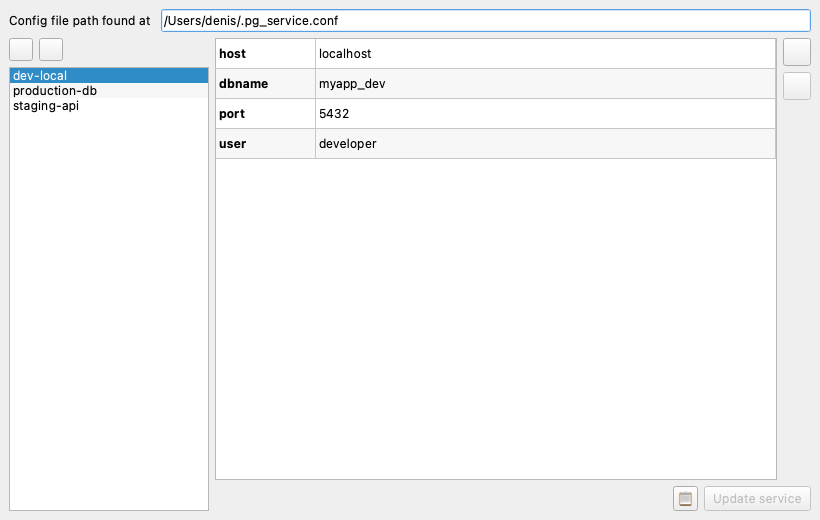
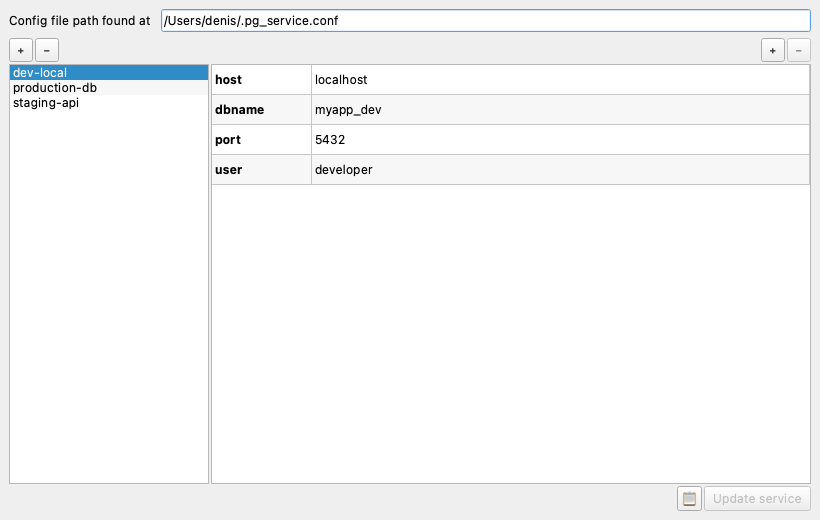
update UI (#69)
* update UI

* use relative imports

diff --git a/pgserviceparser/gui/service_widget.py b/pgserviceparser/gui/service_widget.py
@@ -29,10 +29,19 @@ QToolButton = QtWidgets.QToolButton
 QVBoxLayout = QtWidgets.QVBoxLayout
 QWidget = QtWidgets.QWidget
 
-import pgserviceparser
-from pgserviceparser.exceptions import ServiceFileNotFound, ServiceNotFound
-from pgserviceparser.service_settings import SERVICE_SETTINGS, SETTINGS_TEMPLATE
-
+from .. import (
+    conf_path,
+    copy_service_settings,
+    create_service,
+    remove_service,
+    rename_service,
+    service_config,
+    service_names,
+    write_service,
+    write_service_to_text,
+)
+from ..exceptions import ServiceFileNotFound, ServiceNotFound
+from ..service_settings import SERVICE_SETTINGS, SETTINGS_TEMPLATE
 from .item_delegates import _ServiceConfigDelegate
 from .setting_model import _ServiceConfigModel
 
@@ -60,7 +69,7 @@ class PGServiceParserWidget(QWidget):
             parent: Optional parent widget.
         """
         super().__init__(parent)
-        self._conf_file_path = conf_file_path or pgserviceparser.conf_path()
+        self._conf_file_path = conf_file_path or conf_path()
         self._edit_model: _ServiceConfigModel | None = None
         self._new_empty_file = False
 
@@ -112,24 +121,43 @@ class PGServiceParserWidget(QWidget):
 
         # ---- Main content ----
         self._content_widget = QWidget()
-        root = QHBoxLayout(self._content_widget)
-        root.setContentsMargins(0, 0, 0, 0)
+        content_layout = QVBoxLayout(self._content_widget)
+        content_layout.setContentsMargins(0, 0, 0, 0)
+        content_layout.setSpacing(2)
 
-        # ---- Left: service list + buttons ----
-        left = QVBoxLayout()
+        # ---- Top toolbar: service buttons (left) | settings buttons (right) ----
+        toolbar_row = QHBoxLayout()
 
-        btn_row = QHBoxLayout()
         self.btnAddService = QToolButton()
         self.btnAddService.setIcon(icon_add())
         self.btnAddService.setToolTip("Add a new service")
+        self.btnAddService.setFixedSize(24, 24)
         self.btnRemoveService = QToolButton()
         self.btnRemoveService.setIcon(icon_remove())
         self.btnRemoveService.setToolTip("Remove selected service(s)")
+        self.btnRemoveService.setFixedSize(24, 24)
         self.btnRemoveService.setEnabled(False)
-        btn_row.addWidget(self.btnAddService)
-        btn_row.addWidget(self.btnRemoveService)
-        btn_row.addStretch()
-        left.addLayout(btn_row)
+        toolbar_row.addWidget(self.btnAddService)
+        toolbar_row.addWidget(self.btnRemoveService)
+
+        toolbar_row.addStretch()
+
+        self.btnAddSettings = QToolButton()
+        self.btnAddSettings.setIcon(icon_add())
+        self.btnAddSettings.setToolTip("Add settings to current service")
+        self.btnAddSettings.setFixedSize(24, 24)
+        self.btnRemoveSetting = QToolButton()
+        self.btnRemoveSetting.setIcon(icon_remove())
+        self.btnRemoveSetting.setToolTip("Remove setting from current service")
+        self.btnRemoveSetting.setFixedSize(24, 24)
+        self.btnRemoveSetting.setEnabled(False)
+        toolbar_row.addWidget(self.btnAddSettings)
+        toolbar_row.addWidget(self.btnRemoveSetting)
+
+        content_layout.addLayout(toolbar_row)
+
+        # ---- Middle: service list (left) | settings editor (right) ----
+        mid_row = QHBoxLayout()
 
         self.lstServices = QListWidget()
         self.lstServices.setSelectionMode(QAbstractItemView.SelectionMode.ExtendedSelection)
@@ -138,16 +166,13 @@ class PGServiceParserWidget(QWidget):
         self.lstServices.setSizePolicy(QSizePolicy.Policy.Maximum, QSizePolicy.Policy.Expanding)
         self.lstServices.setMinimumWidth(120)
         self.lstServices.setMaximumWidth(200)
-        left.addWidget(self.lstServices)
-
-        root.addLayout(left, 0)
 
         # ---- Right: settings editor ----
         self.editRightPanel = QWidget()
         right = QVBoxLayout(self.editRightPanel)
         right.setContentsMargins(0, 0, 0, 0)
+        right.setSpacing(2)
 
-        table_row = QHBoxLayout()
         self.tblServiceConfig = QTableView()
         self.tblServiceConfig.setEditTriggers(
             QAbstractItemView.EditTrigger.DoubleClicked | QAbstractItemView.EditTrigger.EditKeyPressed
@@ -158,24 +183,7 @@ class PGServiceParserWidget(QWidget):
         self.tblServiceConfig.horizontalHeader().setVisible(False)
         self.tblServiceConfig.horizontalHeader().setStretchLastSection(True)
         self.tblServiceConfig.verticalHeader().setVisible(False)
-        table_row.addWidget(self.tblServiceConfig)
-
-        setting_btns = QVBoxLayout()
-        self.btnAddSettings = QPushButton()
-        self.btnAddSettings.setIcon(icon_add())
-        self.btnAddSettings.setToolTip("Add settings to current service")
-        self.btnAddSettings.setFixedSize(28, 28)
-        self.btnRemoveSetting = QPushButton()
-        self.btnRemoveSetting.setIcon(icon_remove())
-        self.btnRemoveSetting.setToolTip("Remove setting from current service")
-        self.btnRemoveSetting.setFixedSize(28, 28)
-        self.btnRemoveSetting.setEnabled(False)
-        setting_btns.addWidget(self.btnAddSettings)
-        setting_btns.addWidget(self.btnRemoveSetting)
-        setting_btns.addStretch()
-        table_row.addLayout(setting_btns)
-
-        right.addLayout(table_row)
+        right.addWidget(self.tblServiceConfig)
 
         bottom_row = QHBoxLayout()
         bottom_row.addStretch()
@@ -189,7 +197,19 @@ class PGServiceParserWidget(QWidget):
         bottom_row.addWidget(self.btnUpdateService)
         right.addLayout(bottom_row)
 
-        root.addWidget(self.editRightPanel, 1)
+        # Left column: list + spacer matching the bottom_row height
+        left_col = QVBoxLayout()
+        left_col.setContentsMargins(0, 0, 0, 0)
+        left_col.setSpacing(2)
+        left_col.addWidget(self.lstServices)
+        # Spacer with fixed height to align list bottom with table bottom
+        self._left_bottom_spacer = QWidget()
+        self._left_bottom_spacer.setFixedHeight(self.btnUpdateService.sizeHint().height())
+        left_col.addWidget(self._left_bottom_spacer)
+
+        mid_row.addLayout(left_col, 0)
+        mid_row.addWidget(self.editRightPanel, 1)
+        content_layout.addLayout(mid_row)
 
         outer.addWidget(self._content_widget)
         self._set_edit_panel_enabled(False)
@@ -237,7 +257,7 @@ class PGServiceParserWidget(QWidget):
         selected_text = self.lstServices.currentItem().text() if self.lstServices.currentItem() else ""
         self.lstServices.clear()
         try:
-            names = pgserviceparser.service_names(self._conf_file_path, sorted_alphabetically=True)
+            names = service_names(self._conf_file_path, sorted_alphabetically=True)
         except ServiceFileNotFound:
             self._service_file_warning()
             self.lstServices.blockSignals(False)
@@ -262,9 +282,9 @@ class PGServiceParserWidget(QWidget):
         name, ok = QInputDialog.getText(self, "New service", "Enter a service name:")
         name = name.strip().replace(" ", "-") if name else ""
         if ok and name:
-            self._conf_file_path = pgserviceparser.conf_path(create_if_missing=True)
+            self._conf_file_path = conf_path(create_if_missing=True)
             try:
-                pgserviceparser.create_service(name, {}, self._conf_file_path)
+                create_service(name, {}, self._conf_file_path)
             except PermissionError:
                 self._permission_warning()
             else:
@@ -310,7 +330,7 @@ class PGServiceParserWidget(QWidget):
                 return
 
         try:
-            config = pgserviceparser.service_config(service_name, self._conf_file_path)
+            config = service_config(service_name, self._conf_file_path)
         except ServiceNotFound:
             self._service_not_found_warning(service_name)
             self._refresh_service_list()
@@ -341,7 +361,7 @@ class PGServiceParserWidget(QWidget):
         name = name.strip().replace(" ", "-") if name else ""
         if ok and name:
             try:
-                pgserviceparser.create_service(name, {}, self._conf_file_path)
+                create_service(name, {}, self._conf_file_path)
             except (PermissionError, ServiceFileNotFound) as e:
                 self._permission_warning() if isinstance(e, PermissionError) else self._service_file_warning()
             else:
@@ -374,7 +394,7 @@ class PGServiceParserWidget(QWidget):
         ):
             for name in names:
                 try:
-                    pgserviceparser.remove_service(name, self._conf_file_path)
+                    remove_service(name, self._conf_file_path)
                 except PermissionError:
                     self._permission_warning()
                     return
@@ -420,7 +440,7 @@ class PGServiceParserWidget(QWidget):
         new_name = new_name.strip().replace(" ", "-") if new_name else ""
         if ok and new_name and new_name != old_name:
             try:
-                pgserviceparser.rename_service(old_name, new_name, self._conf_file_path)
+                rename_service(old_name, new_name, self._conf_file_path)
             except PermissionError:
                 self._permission_warning()
             except ServiceNotFound:
@@ -439,7 +459,7 @@ class PGServiceParserWidget(QWidget):
         target_name = target_name.strip().replace(" ", "-") if target_name else ""
         if ok and target_name:
             try:
-                pgserviceparser.copy_service_settings(source_service_name, target_name, self._conf_file_path)
+                copy_service_settings(source_service_name, target_name, self._conf_file_path)
             except PermissionError:
                 self._permission_warning()
             except ServiceNotFound:
@@ -502,7 +522,7 @@ class PGServiceParserWidget(QWidget):
             return
 
         service_name = selected_items[0].text()
-        settings_text = pgserviceparser.write_service_to_text(service_name, self._edit_model.service_config())
+        settings_text = write_service_to_text(service_name, self._edit_model.service_config())
         QApplication.clipboard().setText(settings_text)
 
     @pyqtSlot()
@@ -522,7 +542,7 @@ class PGServiceParserWidget(QWidget):
 
             target_service = selected_items[0].text()
             try:
-                pgserviceparser.write_service(
+                write_service(
                     target_service,
                     self._edit_model.service_config(),
                     self._conf_file_path,

diff --git a/pgserviceparser/gui/item_delegates.py b/pgserviceparser/gui/item_delegates.py
@@ -9,8 +9,7 @@ QLineEdit = QtWidgets.QLineEdit
 QStyledItemDelegate = QtWidgets.QStyledItemDelegate
 QWidget = QtWidgets.QWidget
 
-from pgserviceparser.service_settings import WidgetType
-
+from ..service_settings import WidgetType
 from .setting_model import _ServiceConfigModel
 
 

diff --git a/pgserviceparser/gui/setting_model.py b/pgserviceparser/gui/setting_model.py
@@ -9,7 +9,7 @@ pyqtSignal = QtCore.pyqtSignal
 QColor = QtGui.QColor
 QFont = QtGui.QFont
 
-from pgserviceparser.service_settings import SERVICE_SETTINGS, WidgetType
+from ..service_settings import SERVICE_SETTINGS, WidgetType
 
 
 class _ServiceConfigModel(QAbstractTableModel):
